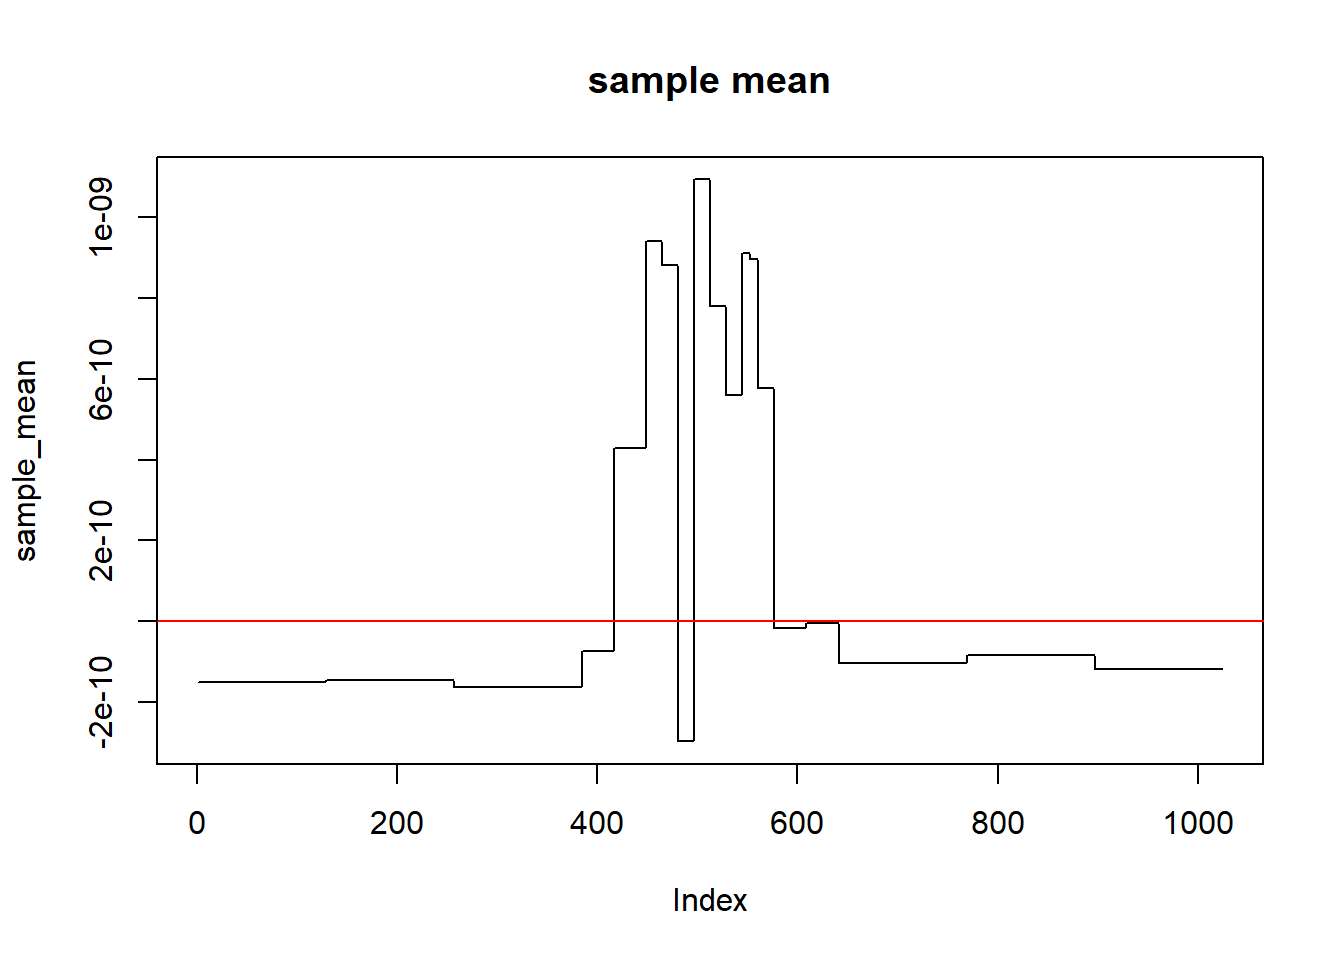
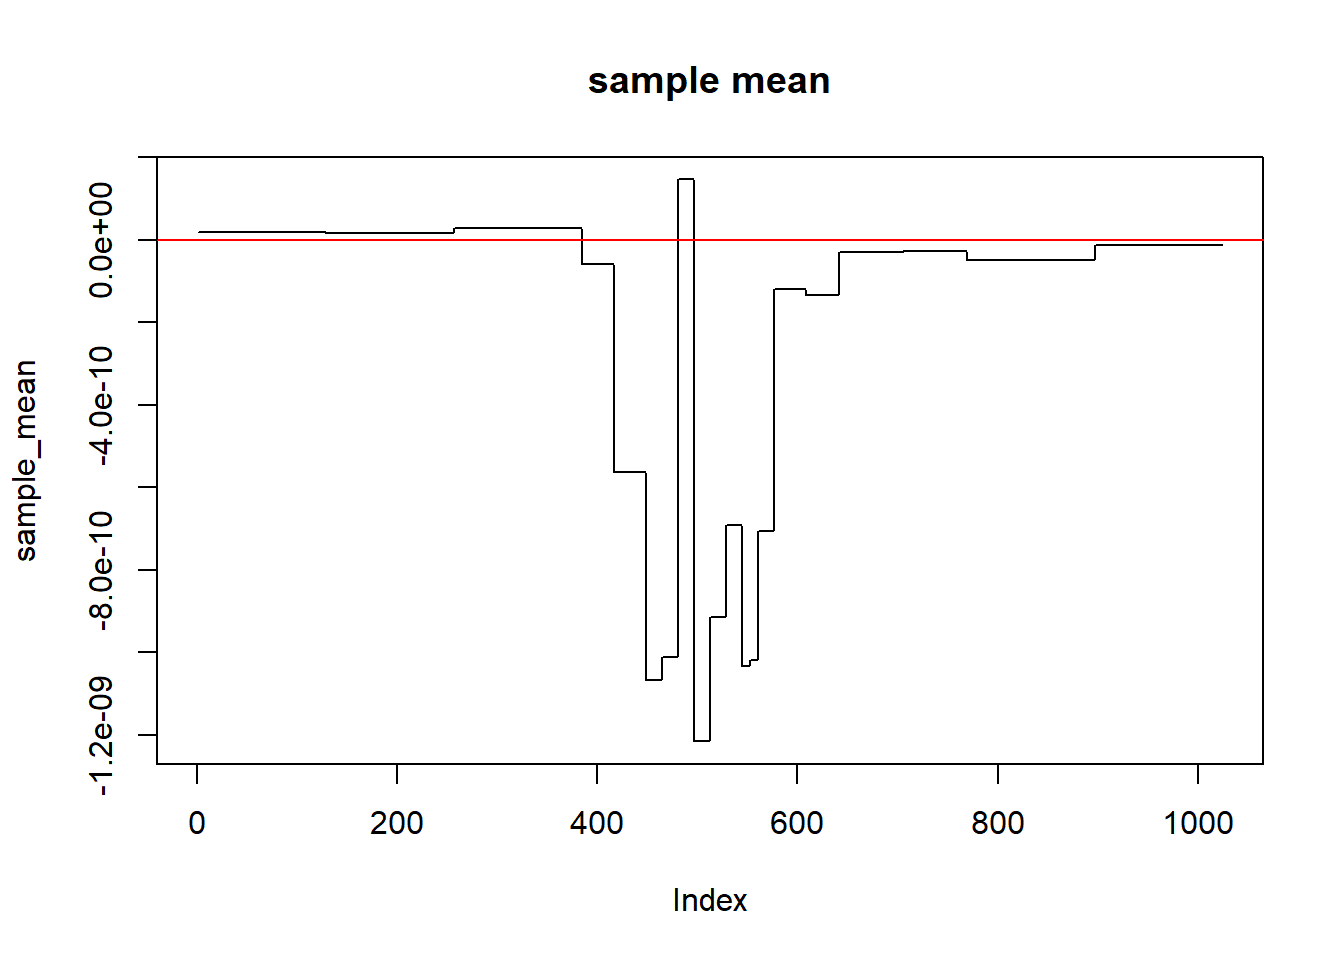
update hmt sim to include scaling coeff

diff --git a/docs/sim1_waveqtl_hmt_gamma_phi.html b/docs/sim1_waveqtl_hmt_gamma_phi.html
@@ -444,18 +444,25 @@ div.tocify {
 \]</span></p>
 <p>Luckily, both quantites <span class="math inline">\(A\)</span> and <span class="math inline">\(B\)</span> are output from our model. (<span class="math inline">\(B\)</span> can be calculated as our model outputs as joint and marginal distributions, so by dividing them we get the conditional quantity, <span class="math inline">\(B\)</span>): <span class="math display">\[
 P(\gamma_{s,l} = m \mid \gamma_{p(sl)} = n, \hat{\pi}, \mathbf{y}, g) = \frac{P(\gamma_{s,l} = m, \gamma_{p(sl)} = n \mid \hat{\pi}, \mathbf{y}, g)}{P(\gamma_{p(sl)} = n \mid \hat{\pi}, \mathbf{y}, g)}
-\]</span></p>
+\]</span> <em>Note - Scaling coefficient:</em> The scaling coefficients (the coefficients at the very top, not actually part of the tree) are unaffected by the tree analysis (they do not affect/are not affected by the elements of the tree, as they are completely disconnected from the tree). Hence, for now, we will use the outputs from WaveQTL to simulate the mean and variance of the scaling coefficient. That is, we will use its corresponding <span class="math inline">\(\phi_{0,0} = P(\gamma_{0,0} = 1 \mid \hat{\pi}, y_{0,0}, g)\)</span> to simulate its state, then sample its <span class="math inline">\(\beta\)</span> value. We will use 3-parameter t-distribution mean and variance parameters from the original WaveQTL output also.</p>
 <p>Here’s an example working based on tree-level tying:</p>
 <p>Now, let’s simulate a sequence of <span class="math inline">\(\gamma\)</span>’s:</p>
 <pre class="r"><code>gamma_seq &lt;- numeric()
 set.seed(10)
-rand_seq &lt;- runif(1023)
-gamma_seq[1] &lt;- ifelse(rand_seq[1] &lt; a_1[1], 1, 0)
+rand_seq &lt;- runif(1024)
 
+# Scaling coefficient
+gamma_seq[1] &lt;- ifelse(rand_seq[1] &lt; waveqtl_phi, 1, 0)
+
+# Head of tree
+gamma_seq[2] &lt;- ifelse(rand_seq[2] &lt; a_1[1], 1, 0)
+
+# i is the index of tree, where i = 1 is the head of the tree
+# Using this notation because that&#39;s how &#39;get_parent_indices&#39; has been written
 for(i in 2:1023){
   indx &lt;- i
   parent_indx &lt;- get_parent_indices(indx)
-  parent_gamma &lt;- gamma_seq[parent_indx]
+  parent_gamma &lt;- gamma_seq[parent_indx + 1]
   
   if(parent_gamma == 1){
     numerator &lt;- b_11[indx]
@@ -467,7 +474,7 @@ for(i in 2:1023){
   
   post_prob &lt;- numerator/denominator
   
-  gamma_seq[i] &lt;- ifelse(rand_seq[i] &lt; post_prob, 1, 0)
+  gamma_seq[i+1] &lt;- ifelse(rand_seq[i+1] &lt; post_prob, 1, 0)
   
 }</code></pre>
 <pre class="r"><code>### RUN INTERACTIVELY!
@@ -478,25 +485,28 @@ vector_centeriser &lt;- function(vect){
   in_between_zeros &lt;- length(vect) - 1
   
   res_vect &lt;- c(0,vect[1],0)
+  if(in_between_zeros &gt; 0){
     for(i in 1:in_between_zeros){
       res_vect &lt;- c(res_vect,vect[i + 1],0)
     }  
+  }
   return(res_vect)
 }
 
-# Kind of a start to visualising tree coefficients
+# Kind of a start to visualising tree coefficients - without the scaling coeff (11 rows too large for plot)
+gamma_seq_plot &lt;- gamma_seq[-1]
 par(mfrow = c(10,1)
     ,mar = c(2,2,2,2))
-plot(vector_centeriser(gamma_seq[1]),type = &quot;h&quot;,ylab = &quot;&quot;,axes = F)#; axis(1)
-plot(vector_centeriser(gamma_seq[2:3]),type = &quot;h&quot;,ylab = &quot;&quot;,axes = F)#; axis(1)
-plot(vector_centeriser(gamma_seq[4:7]),type = &quot;h&quot;,ylab = &quot;&quot;,axes = F)#; axis(1)
-plot(vector_centeriser(gamma_seq[8:15]),type = &quot;h&quot;,ylab = &quot;&quot;,axes = F)#; axis(1)
-plot(vector_centeriser(gamma_seq[16:31]),type = &quot;h&quot;,ylab = &quot;&quot;,axes = F)#; axis(1)
-plot(vector_centeriser(gamma_seq[32:63]),type = &quot;h&quot;,ylab = &quot;&quot;,axes = F)#; axis(1)
-plot(vector_centeriser(gamma_seq[64:127]),type = &quot;h&quot;,ylab = &quot;&quot;,axes = F)#; axis(1)
-plot(vector_centeriser(gamma_seq[128:255]),type = &quot;h&quot;,ylab = &quot;&quot;,axes = F)#; axis(1)
-plot(vector_centeriser(gamma_seq[256:511]),type = &quot;h&quot;,ylab = &quot;&quot;,axes = F)#; axis(1)
-plot(vector_centeriser(gamma_seq[512:1023]),type = &quot;h&quot;,ylab = &quot;&quot;,axes = F)#; axis(1)</code></pre>
+plot(vector_centeriser(gamma_seq_plot[1]),type = &quot;h&quot;,ylab = &quot;&quot;,axes = F)#; axis(1)
+plot(vector_centeriser(gamma_seq_plot[2:3]),type = &quot;h&quot;,ylab = &quot;&quot;,axes = F)#; axis(1)
+plot(vector_centeriser(gamma_seq_plot[4:7]),type = &quot;h&quot;,ylab = &quot;&quot;,axes = F)#; axis(1)
+plot(vector_centeriser(gamma_seq_plot[8:15]),type = &quot;h&quot;,ylab = &quot;&quot;,axes = F)#; axis(1)
+plot(vector_centeriser(gamma_seq_plot[16:31]),type = &quot;h&quot;,ylab = &quot;&quot;,axes = F)#; axis(1)
+plot(vector_centeriser(gamma_seq_plot[32:63]),type = &quot;h&quot;,ylab = &quot;&quot;,axes = F)#; axis(1)
+plot(vector_centeriser(gamma_seq_plot[64:127]),type = &quot;h&quot;,ylab = &quot;&quot;,axes = F)#; axis(1)
+plot(vector_centeriser(gamma_seq_plot[128:255]),type = &quot;h&quot;,ylab = &quot;&quot;,axes = F)#; axis(1)
+plot(vector_centeriser(gamma_seq_plot[256:511]),type = &quot;h&quot;,ylab = &quot;&quot;,axes = F)#; axis(1)
+plot(vector_centeriser(gamma_seq_plot[512:1023]),type = &quot;h&quot;,ylab = &quot;&quot;,axes = F)#; axis(1)</code></pre>
 <p>Now, we have our sequence of <span class="math inline">\(\gamma\)</span>’s, we can then simulate values for each <span class="math inline">\(\beta\)</span>. We have: <span class="math display">\[ 
 \beta_{s,l} =
 \begin{cases}
@@ -513,9 +523,14 @@ plot(vector_centeriser(gamma_seq[512:1023]),type = &quot;h&quot;,ylab = &quot;&q
 <pre class="r"><code># Load mean, var outputs from HMT
 mean1 &lt;- as.matrix(read.table(paste0(data_path,dataset,&quot;.fph.mean1.txt&quot;)))[geno_select,]
 var1 &lt;- as.matrix(read.table(paste0(data_path,dataset,&quot;.fph.var1.txt&quot;)))[geno_select,]
-# Just take the 1023 numeric values (excl first one as it&#39;s the scaling coefficient), from cols 3:1025.
-mean1 &lt;- as.numeric(mean1[3:1025])
-var1 &lt;- as.numeric(var1[3:1025])
+
+# Load mean, var outputs from WaveQTL
+mean1_waveqtl &lt;- as.matrix(read.table(paste0(waveqtl_data_path,waveqtl_dataset,&quot;.fph.mean1.txt&quot;)))[geno_select,2]
+var1_waveqtl &lt;- as.matrix(read.table(paste0(waveqtl_data_path,waveqtl_dataset,&quot;.fph.var1.txt&quot;)))[geno_select,2]
+
+# Append top coeff to the 1023 numeric values (excl first one as it&#39;s the scaling coefficient), from cols 3:1025 from HMT
+mean1 &lt;- c(as.numeric(mean1_waveqtl), as.numeric(mean1[3:1025]))
+var1 &lt;- c(as.numeric(var1_waveqtl), as.numeric(var1[3:1025]))
 
 ## back out a, b (from t-dist) parameters:
 t_nu &lt;- 70
@@ -532,32 +547,34 @@ gamma_1_indx &lt;- which(gamma_seq == 1)
 beta_seq[gamma_1_indx] &lt;- t_sample_3p[gamma_1_indx]</code></pre>
 <p>Now we’ll use an inverse Haar wavelet transform to transform the <span class="math inline">\(\beta\)</span>’s back into data space values (<span class="math inline">\(\alpha\)</span>’s), and then calculate some sample statistics (mean, variance) from these.</p>
 <pre class="r"><code>Wmat_1024 = read.table(&quot;~/Cpp/WaveQTL_HMT/data/DWT/Wmat_1024&quot;,as.is = TRUE)
-# W2mat_1024 = Wmat_1024*Wmat_1024
 
-# currently only using rows 2-&gt;1024, as not sure what we&#39;re doing with scaling coefficient yet.
-# Still columns 1-&gt;1024, to generate effect sizes at each of the 1024 bases.
-
-### Do we need to take &#39;-ve&#39; or not?
-# beta_dataS = as.vector(-matrix(data=beta_seq, nr = 1, nc = 1024)%*%as.matrix(Wmat_1024))
-beta_dataS = as.vector(matrix(data=beta_seq, nr = 1, nc = 1023)%*%as.matrix(Wmat_1024)[2:1024,])
-plot(beta_dataS, main = &quot;Simulation 1&quot;, type = &quot;l&quot;)</code></pre>
+### &#39;-ve&#39; is taken to represent biological definition of effects (akin to a base level)
+beta_dataS = as.vector(-matrix(data=beta_seq, nr = 1, nc = 1024)%*%as.matrix(Wmat_1024))
+plot(beta_dataS, main = &quot;Simulation 1&quot;, type = &quot;l&quot;)
+abline(h = 0, col = &quot;red&quot;)</code></pre>
 <p><img src="sim1_waveqtl_hmt_gamma_phi_files/figure-html/inverse_wlet-1.png" width="672" /> The above is an example of a data space vector. Now we replicate over a number of samples.</p>
 <pre class="r"><code>num_samples &lt;- 1000
 set.seed(10)
-beta_data_samples &lt;- matrix(nrow = num_samples,ncol = 1024)
+beta_data_samples &lt;- matrix(nrow = num_samples,ncol = num_pheno)
 
 for(j in 1:num_samples){
   # Generate gamma
   gamma_seq &lt;- numeric()
+  rand_seq &lt;- runif(num_pheno)
   
-  rand_seq &lt;- runif(1023)
-  gamma_seq[1] &lt;- ifelse(rand_seq[1] &lt; a_1[1], 1, 0)
+  # Scaling coefficient
+  gamma_seq[1] &lt;- ifelse(rand_seq[1] &lt; waveqtl_phi, 1, 0)
   
+  # Head of tree
+  gamma_seq[2] &lt;- ifelse(rand_seq[2] &lt; a_1[1], 1, 0)
+  
+  # i is the index of tree, where i = 1 is the head of the tree
+  # Using this notation because that&#39;s how &#39;get_parent_indices&#39; has been written
   for(i in 2:1023){
     indx &lt;- i
     parent_indx &lt;- get_parent_indices(indx)
-    parent_gamma &lt;- gamma_seq[parent_indx]
-    
+    parent_gamma &lt;- gamma_seq[parent_indx + 1]
+        
     if(parent_gamma == 1){
       numerator &lt;- b_11[indx]
       denominator &lt;- a_1[parent_indx]
@@ -568,7 +585,7 @@ for(j in 1:num_samples){
     
     post_prob &lt;- numerator/denominator
     
-    gamma_seq[i] &lt;- ifelse(rand_seq[i] &lt; post_prob, 1, 0)
+    gamma_seq[i+1] &lt;- ifelse(rand_seq[i+1] &lt; post_prob, 1, 0)
   }
   
   # Generate beta
@@ -581,7 +598,7 @@ for(j in 1:num_samples){
   beta_seq[gamma_1_indx] &lt;- t_sample_3p[gamma_1_indx]
   
   # Transform into data space
-  beta_data_samples[j,] = as.vector(matrix(data=beta_seq, nr = 1, nc = 1023)%*%as.matrix(Wmat_1024)[2:1024,])
+  beta_data_samples[j,] = as.vector(-matrix(data=beta_seq, nr = 1, nc = num_pheno)%*%as.matrix(Wmat_1024))
 }
 
 sample_mean &lt;- apply(beta_data_samples,MARGIN = 2,mean)
